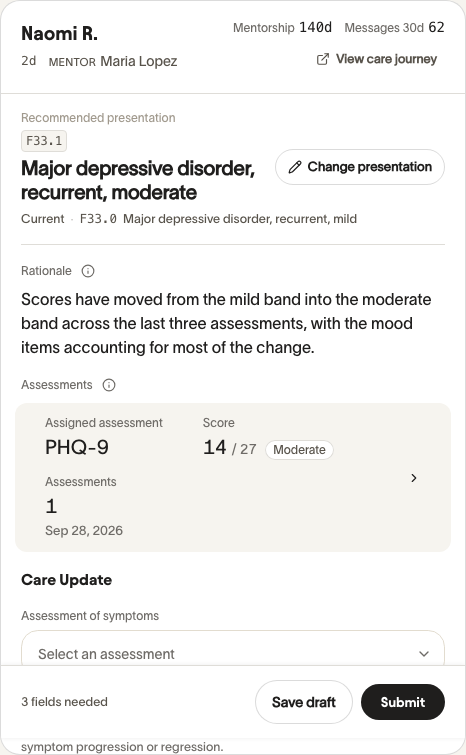
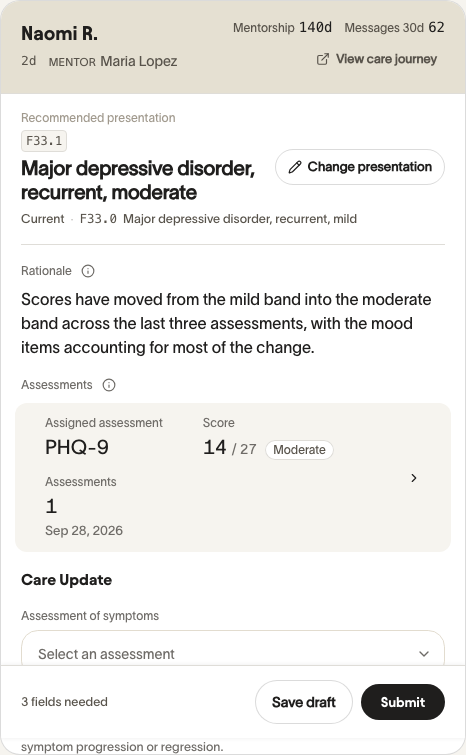
feat(care-reviews): the detail header becomes Tier 1 — two-tone, ranked in both themes
Elevation amendment §2. The pane's header band was unfilled, so it could
not outrank the Assessments block sitting below it — the diagnosis the
amendment keeps from the pack it supersedes. It is filled now, the
Assessments fill is RETAINED, and rank is carried by value AND containment
AND position rather than by colour alone.

  Tier 1  header band      --surface-s2    #e5e0d2 / #0e0d0c
  Tier 0  pane body        --surface-card  #ffffff / #322f2c
  Tier 2  Assessments      --surface-s1    #f6f4ef / #272421   (untouched)

`--surface-s2` AND NOT `--band-sand-bg`, AND THE NUMBERS DECIDED IT. The
amendment calls Tier 1 "deepest, warmest" and the reference is a `TaskCard`
whose band is the warm triad. MEASURED as relative luminance x100:

  candidate  --band-sand-bg
    light   Tier1 86.40 < Tier2 90.53 < Tier0 100.00 — but sand:s1 is
            1.045:1, which is not a rank, it is a rounding difference
    dark    Tier2 1.80 < Tier0 2.89 < Tier1 6.38 — THE ORDER INVERTS; the
            "deepest" tier becomes the brightest thing on the pane
  chosen     --surface-s2
    light   74.62 < 90.53 < 100.00   separations 1.32:1 and 1.20:1
    dark     0.41 <  1.80 <   2.89   separations 1.46:1 and 1.26:1

So only one of the two candidates is RANKED, which is the amendment's own
word, and it is ranked identically in both themes. It is also still warm —
#e5e0d2 is hue 44deg at chroma 19, the same hue family and chroma as sand,
[…]

Changed region(s): [[0.0, 0.0, 1.0, 0.1219]]

diff --git a/src/components/tasks/task-pane.tsx b/src/components/tasks/task-pane.tsx
@@ -360,7 +360,20 @@ function EngagementLine({
             m.optional ? "hidden @min-[500px]:flex" : "flex"
           )}
         >
-          <dt className={LABEL}>
+          {/* ═══ NOT `--text-muted` ON THIS GROUND (elevation amendment §2) ═══
+              `LABEL` is `PANE_LABEL`, which pairs the field-label type token
+              with `--text-muted`. That pairing was measured against the pane's
+              WHITE body; this band is `--surface-s2` now, and this codebase
+              already recorded what muted does there — "Muted measures 4.01:1 on
+              `--surface-s2` — under the 4.5 floor for 12px text, where
+              secondary is 5.78:1", in `ReviewIdentityCell`'s own note.
+              SO THE INK MOVES WITH THE GROUND. The type token stays — it is the
+              field-label stop and nothing about it changed — and only the colour
+              is overridden, which is the same substitution K.5 made system-wide
+              on this surface. Applying the tier without this would have put two
+              12px labels under the AA floor on the pane a supervisor reads
+              every time. */}
+          <dt className={cn(LABEL, "text-[var(--text-secondary)]")}>
             <span aria-hidden>{m.short}</span>
             <span className="sr-only">{m.full}</span>
           </dt>
@@ -887,7 +900,57 @@ export function TaskPane({
             "due 6:24 PM" sees the same words in the pane rather than a second
             spelling of the same instant.
           · THE TWO WAYS OUT live here. See the note on the CTAs. */}
-      <div className="shrink-0 border-b border-[color:var(--border-subtle)] px-5 py-4">
+      {/* ═══ TIER 1 · THE HEADER BAND'S TONE (elevation amendment §2) ═══
+          "Tones do not need to be unique. They need to be RANKED, and the
+          header must outrank anything beneath it." Three tiers:
+            Tier 1  this band          `--surface-s2`
+            Tier 0  the pane body      `--surface-card`
+            Tier 2  the nested block   `--surface-s1`  (already, untouched)
+
+          ═══ `--surface-s2` AND NOT `--band-sand-bg`, AND THE NUMBERS DECIDED ═══
+          The amendment describes Tier 1 as "deepest, warmest", and the
+          reference is a `TaskCard` whose band is `--band-sand-bg`. MEASURED as
+          relative luminance x100, sand does not rank:
+            light  Tier1 sand 86.40 < Tier2 s1 90.53 < Tier0 card 100.00
+                   — but sand:s1 is 1.045:1, which is not a rank, it is a
+                     rounding difference
+            dark   Tier2 s1 1.80 < Tier0 card 2.89 < Tier1 sand 6.38
+                   — THE ORDER INVERTS. The "deepest" tier becomes the
+                     brightest thing on the pane.
+          `--surface-s2` holds the ranking in BOTH themes:
+            light  Tier1 74.62 < Tier2 90.53 < Tier0 100.00
+            dark   Tier1  0.41 < Tier2  1.80 < Tier0   2.89
+          with separations of 1.319 / 1.200 light and 1.460 / 1.258 dark.
+          IT IS ALSO STILL WARM — #e5e0d2 is hue 44deg at chroma 19, the same
+          hue family as sand and the same chroma, just deeper. So it satisfies
+          "deepest, warmest" better than the warm-triad token does.
+          AND IT IS THE EXISTING NEUTRAL VARIANT OF THIS PATTERN, not a new
+          choice: `record-authority-note` already uses `--surface-s2` as a flush
+          filled header band over a white body, and its note says why — "the app
+          ground, one step darker than this card's white". The warm triad is
+          SEVERITY-coded (sand/amber/clay via `taskBandFill`), and this band
+          carries identity, not severity; importing a severity tone would import
+          a semantic this pane does not have.
+
+          THE HAIRLINE STAYS `--border-subtle`. `TaskBand` mixes its hairline
+          from the band's own ink at 22% because "a neutral #dfddd8 hairline
+          against a warm tint reads as a seam of a different colour" — that rule
+          is about the warm `--band-*` tints. `record-authority-note`'s
+          `--surface-s2` band keeps the neutral hairline, and this follows it.
+
+          NO `rounded-t-*` AND NO `-mx-*`: the pane container is already
+          `overflow-hidden rounded-[var(--radius-elevated)]`, so the fill
+          terminates on the radius by clipping. `today-page.tsx` records the
+          three-piece `rounded-t` + `border-x border-b` version as the bug.
+
+          PROPORTIONS LEFT ALONE, AND WHY. §3 says to take "the band's
+          proportions" from the reference, and those are specified in §6.3 of a
+          pack this session was never given — the amendment supersedes §6.2 of
+          it and I have only the amendment. `TaskBand`'s own proportions are
+          `min-h-14 px-[var(--surface-pad-x)] py-2` against this band's
+          `px-5 py-4`; changing them is a spec I cannot check, so the TONE is
+          applied and the geometry is not. Reported rather than guessed. */}
+      <div className="shrink-0 border-b border-[color:var(--border-subtle)] bg-[var(--surface-s2)] px-5 py-4">
         <div
           /* ═══ THE CONTAINER FOR §3.3's QUERY IS THIS ROW ═══
              It is the element that WRAPS when the two blocks do not fit, so its
